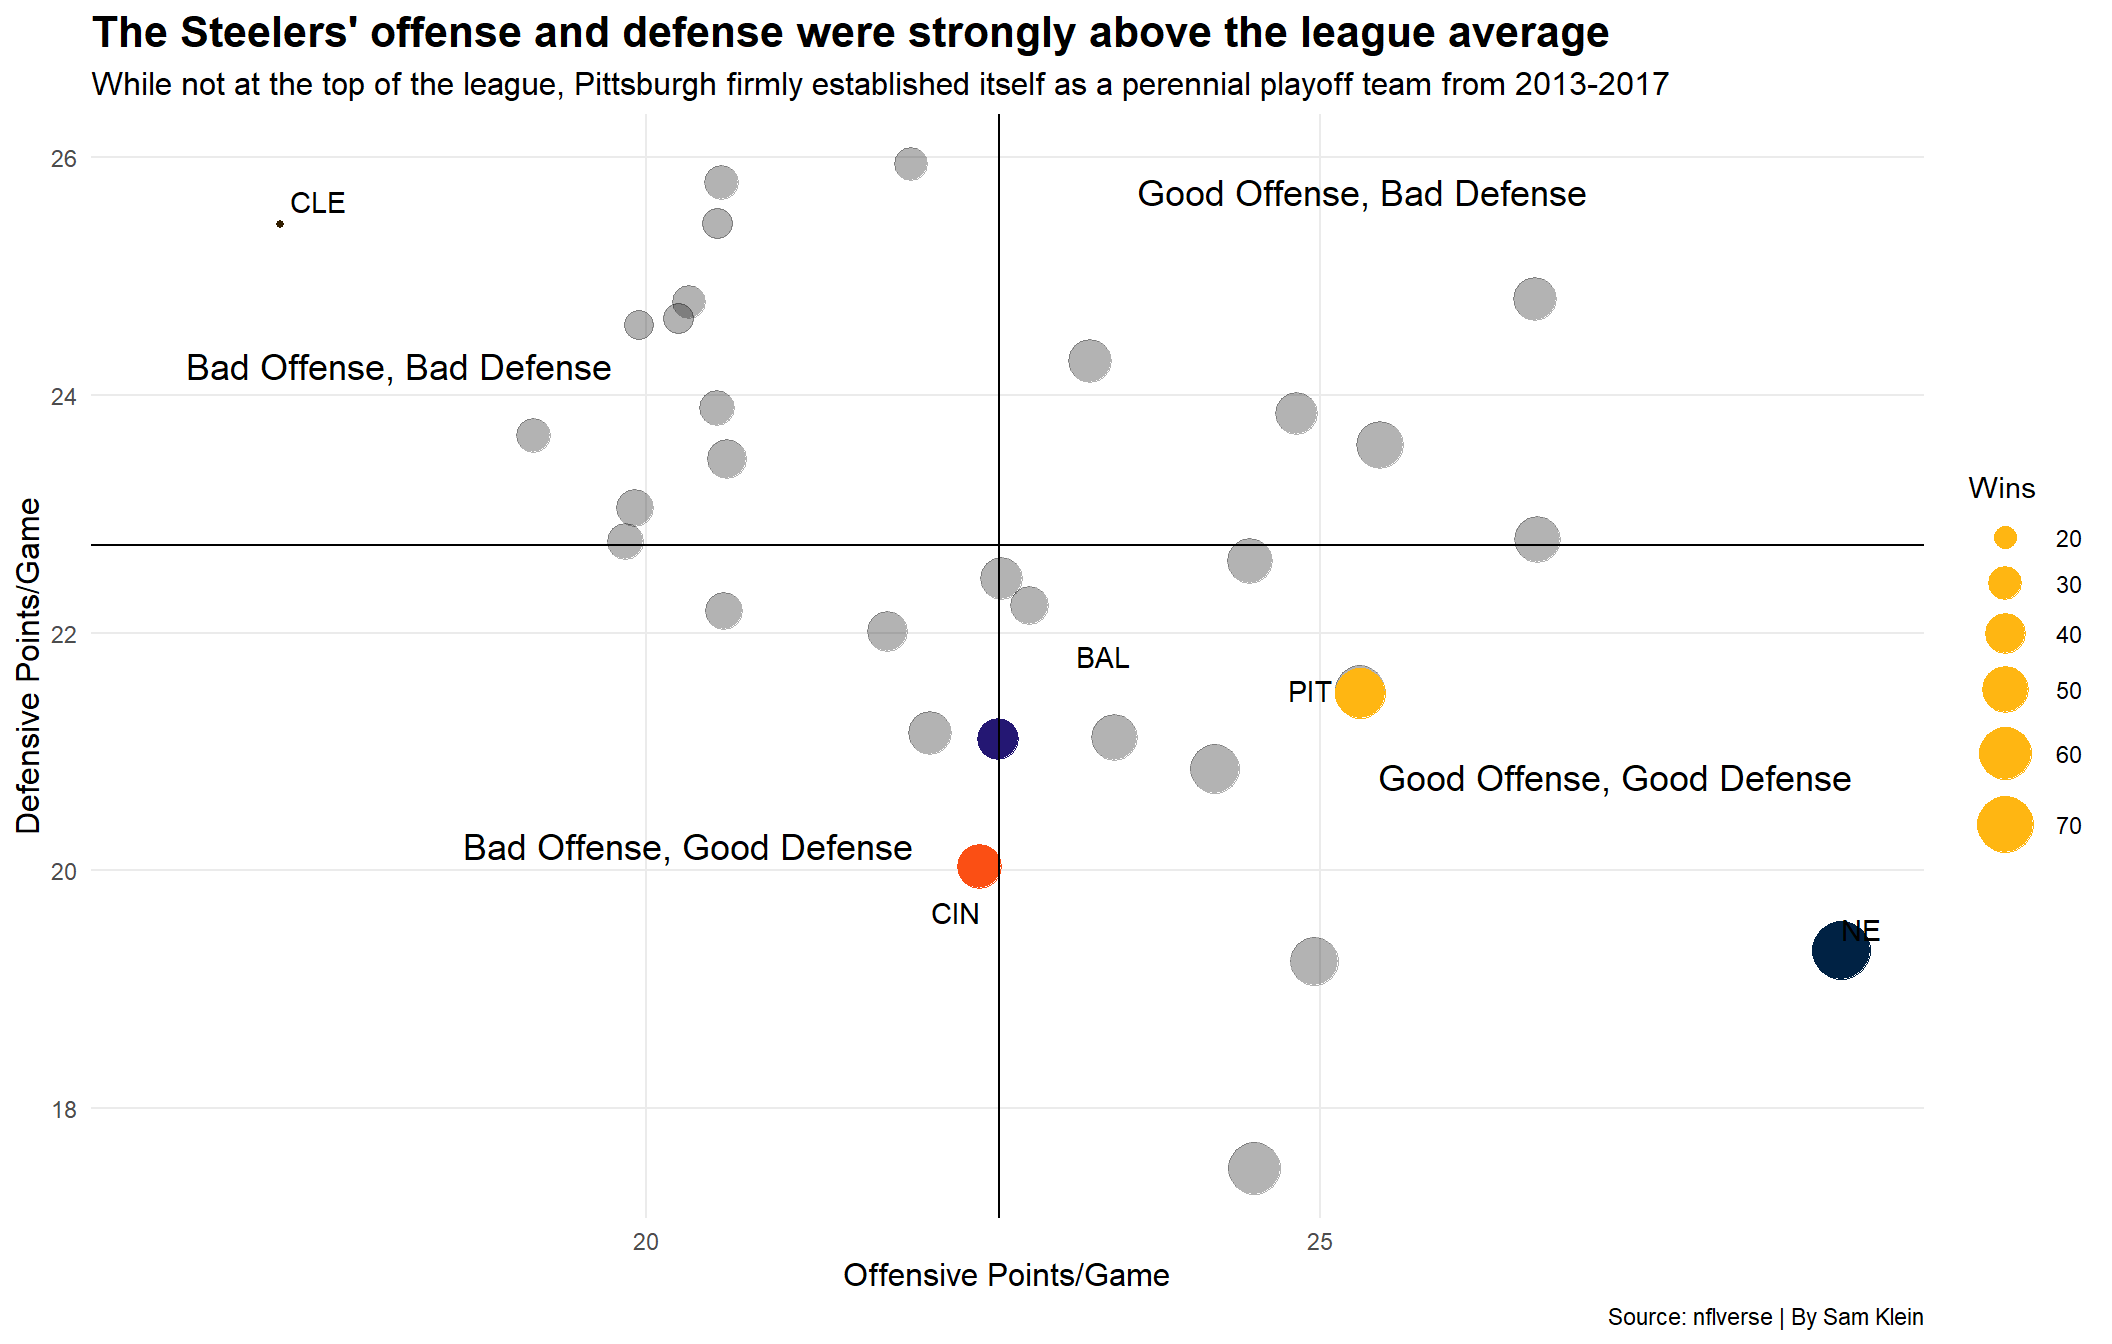
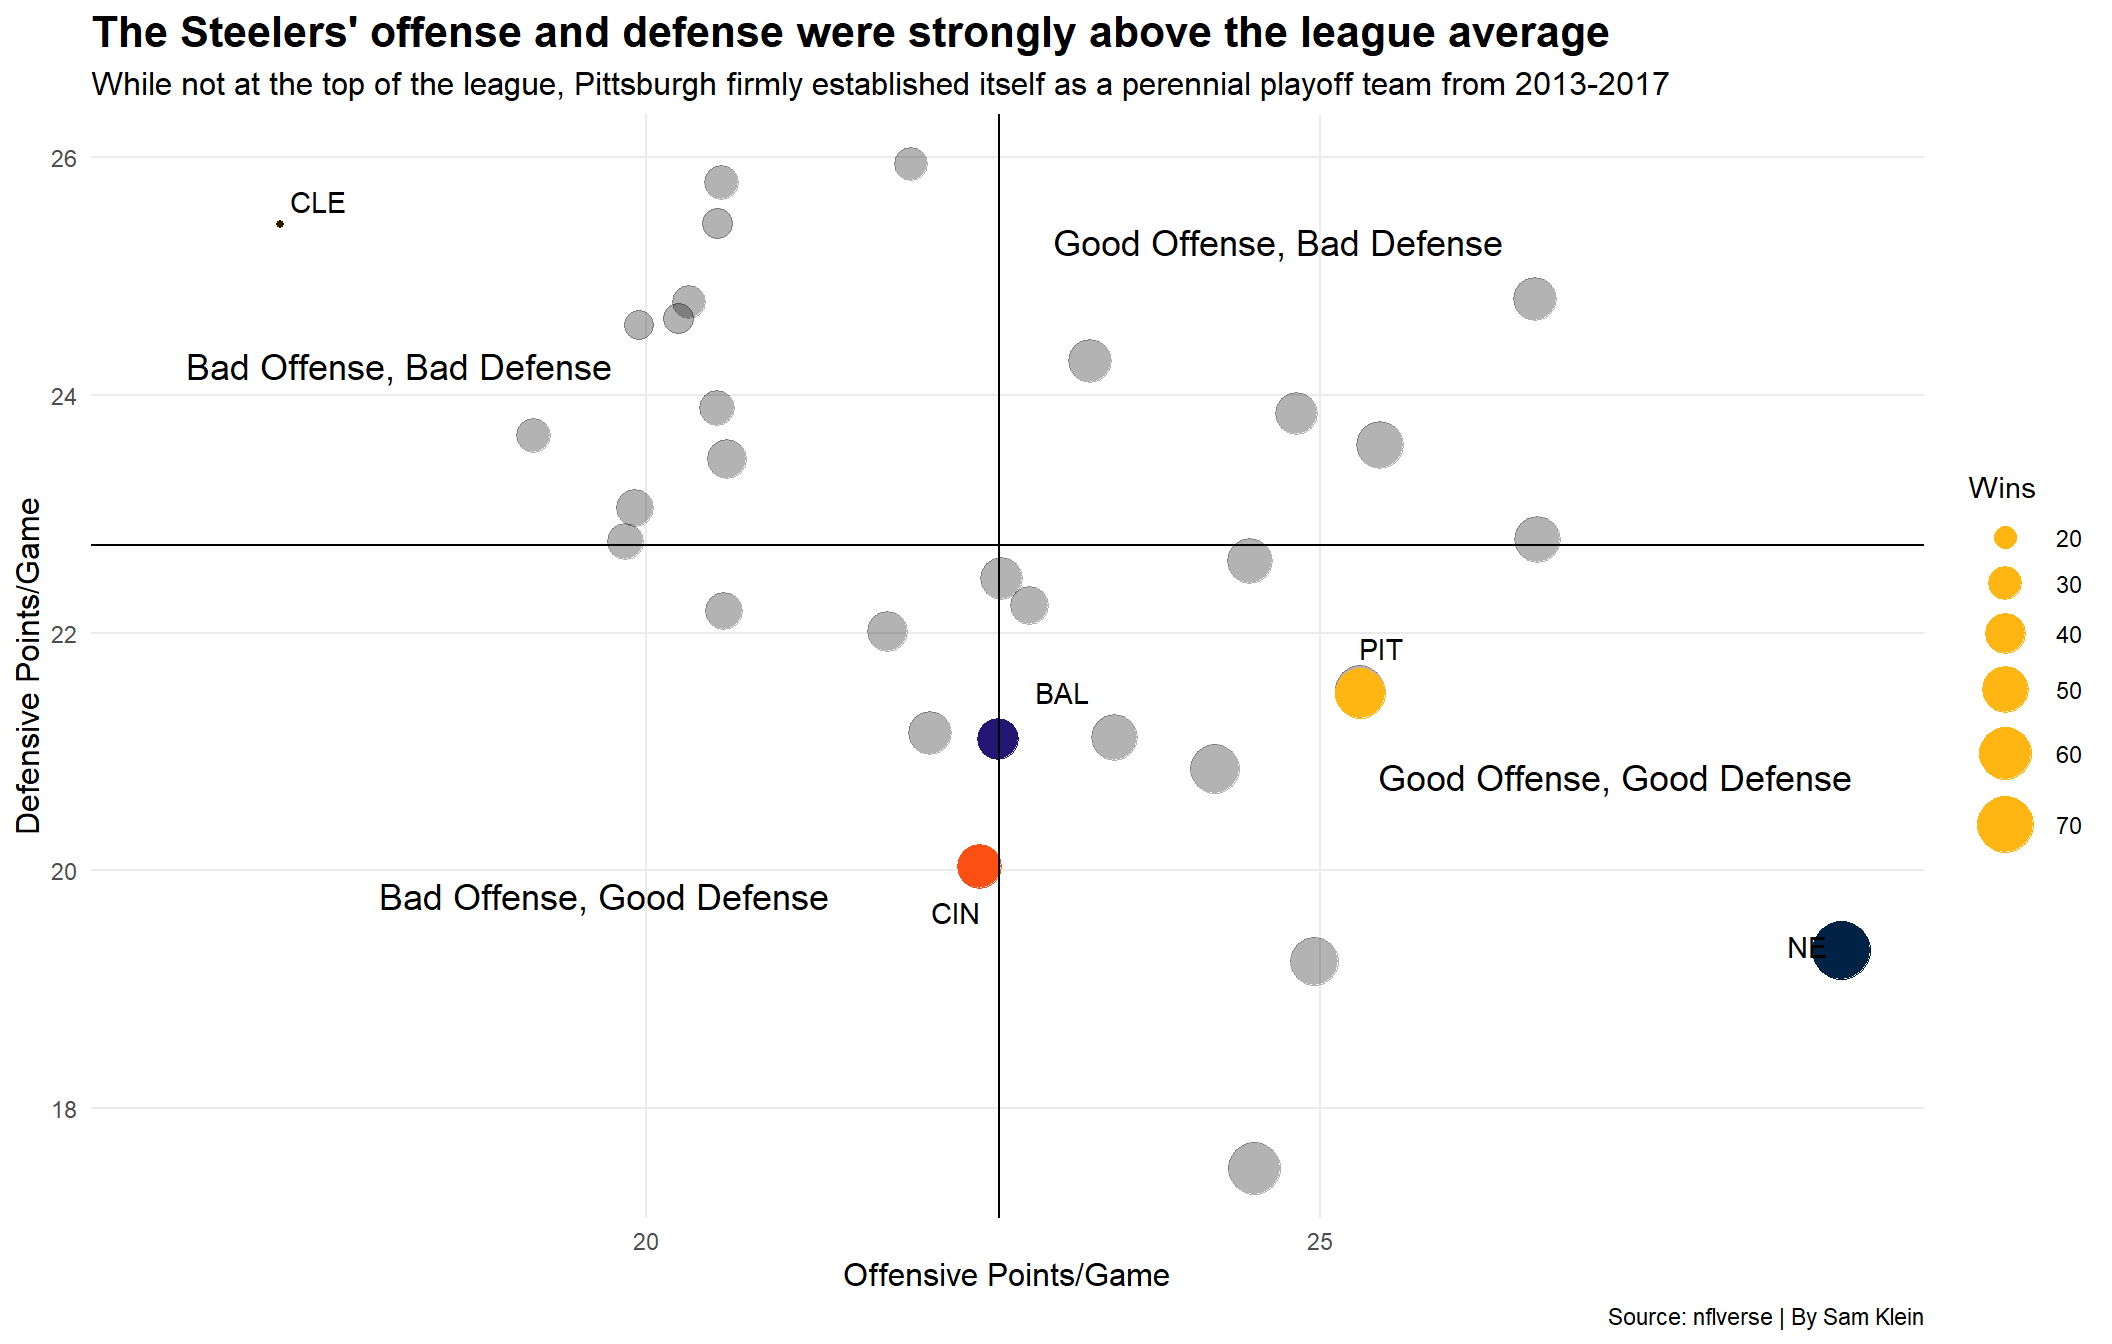
initial commit

diff --git a/posts/pittsburgh-steelers-killer-bs/index.html b/posts/pittsburgh-steelers-killer-bs/index.html
@@ -565,7 +565,7 @@ pre > code.sourceCode > span > a:first-child::before { text-decoration: underlin
 <span id="cb2-87"><a href="#cb2-87" aria-hidden="true" tabindex="-1"></a>  ) <span class="sc">+</span></span>
 <span id="cb2-88"><a href="#cb2-88" aria-hidden="true" tabindex="-1"></a>  <span class="fu">geom_text_repel</span>(</span>
 <span id="cb2-89"><a href="#cb2-89" aria-hidden="true" tabindex="-1"></a>    <span class="at">data =</span> ravens,</span>
-<span id="cb2-90"><a href="#cb2-90" aria-hidden="true" tabindex="-1"></a>    <span class="fu">aes</span>(<span class="at">x =</span> offppg <span class="sc">+</span> .<span class="dv">5</span>, <span class="at">y =</span> defppg <span class="sc">+</span> .<span class="dv">5</span>, <span class="at">label =</span> team)</span>
+<span id="cb2-90"><a href="#cb2-90" aria-hidden="true" tabindex="-1"></a>    <span class="fu">aes</span>(<span class="at">x =</span> offppg <span class="sc">+</span> .<span class="dv">2</span>, <span class="at">y =</span> defppg <span class="sc">+</span> .<span class="dv">2</span>, <span class="at">label =</span> team)</span>
 <span id="cb2-91"><a href="#cb2-91" aria-hidden="true" tabindex="-1"></a>  ) <span class="sc">+</span></span>
 <span id="cb2-92"><a href="#cb2-92" aria-hidden="true" tabindex="-1"></a>  <span class="fu">geom_text_repel</span>(</span>
 <span id="cb2-93"><a href="#cb2-93" aria-hidden="true" tabindex="-1"></a>    <span class="at">data =</span> bengals,</span>
@@ -577,7 +577,7 @@ pre > code.sourceCode > span > a:first-child::before { text-decoration: underlin
 <span id="cb2-99"><a href="#cb2-99" aria-hidden="true" tabindex="-1"></a>  ) <span class="sc">+</span></span>
 <span id="cb2-100"><a href="#cb2-100" aria-hidden="true" tabindex="-1"></a>  <span class="fu">geom_text_repel</span>(</span>
 <span id="cb2-101"><a href="#cb2-101" aria-hidden="true" tabindex="-1"></a>    <span class="at">data =</span> patriots,</span>
-<span id="cb2-102"><a href="#cb2-102" aria-hidden="true" tabindex="-1"></a>    <span class="fu">aes</span>(<span class="at">x =</span> offppg <span class="sc">-</span> .<span class="dv">1</span>, <span class="at">y =</span> defppg, <span class="at">label =</span> team)</span>
+<span id="cb2-102"><a href="#cb2-102" aria-hidden="true" tabindex="-1"></a>    <span class="fu">aes</span>(<span class="at">x =</span> offppg, <span class="at">y =</span> defppg <span class="sc">+</span> .<span class="dv">2</span>, <span class="at">label =</span> team)</span>
 <span id="cb2-103"><a href="#cb2-103" aria-hidden="true" tabindex="-1"></a>  ) <span class="sc">+</span></span>
 <span id="cb2-104"><a href="#cb2-104" aria-hidden="true" tabindex="-1"></a>  <span class="fu">geom_text_repel</span>(</span>
 <span id="cb2-105"><a href="#cb2-105" aria-hidden="true" tabindex="-1"></a>    <span class="at">data =</span> <span class="cn">NULL</span>, </span>

diff --git a/index.html b/index.html
@@ -210,7 +210,7 @@ window.Quarto = {
 
 <div class="quarto-listing quarto-listing-container-default" id="listing-listing">
 <div class="list quarto-listing-default">
-<div class="quarto-post image-right" data-index="0" data-categories="Zm9vdGJhbGwlMkNuZmwlMkNzdGVlbGVycw==" data-listing-date-sort="1713070800000" data-listing-file-modified-sort="1744675303439" data-listing-date-modified-sort="NaN" data-listing-reading-time-sort="16" data-listing-word-count-sort="3144">
+<div class="quarto-post image-right" data-index="0" data-categories="Zm9vdGJhbGwlMkNuZmwlMkNzdGVlbGVycw==" data-listing-date-sort="1713070800000" data-listing-file-modified-sort="1744675932325" data-listing-date-modified-sort="NaN" data-listing-reading-time-sort="16" data-listing-word-count-sort="3144">
 <div class="thumbnail">
 <p><a href="./posts/pittsburgh-steelers-killer-bs/index.html" class="no-external"></a></p><a href="./posts/pittsburgh-steelers-killer-bs/index.html" class="no-external">
 <p><img loading="lazy" src="./posts/pittsburgh-steelers-killer-bs/image.png" class="thumbnail-image"></p>
